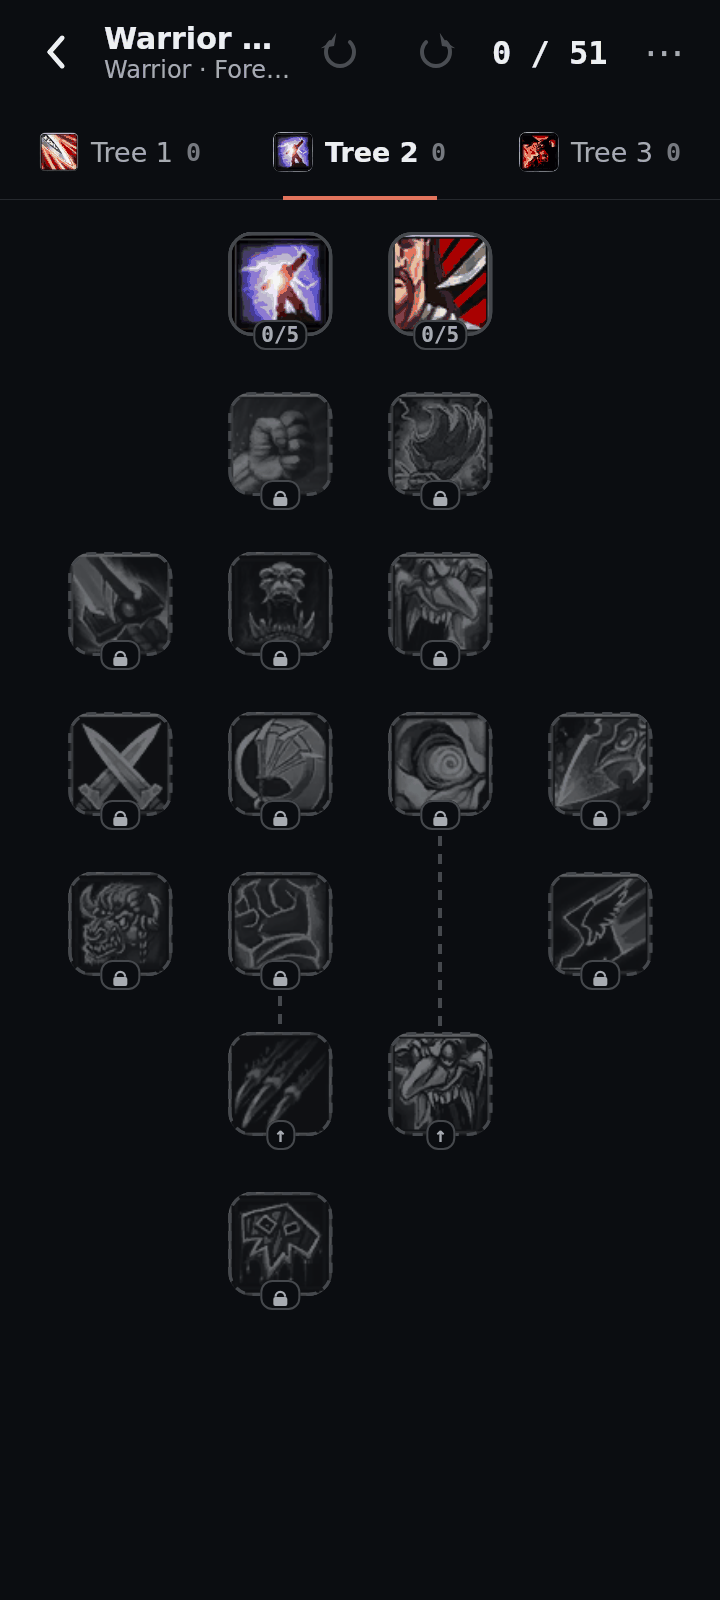
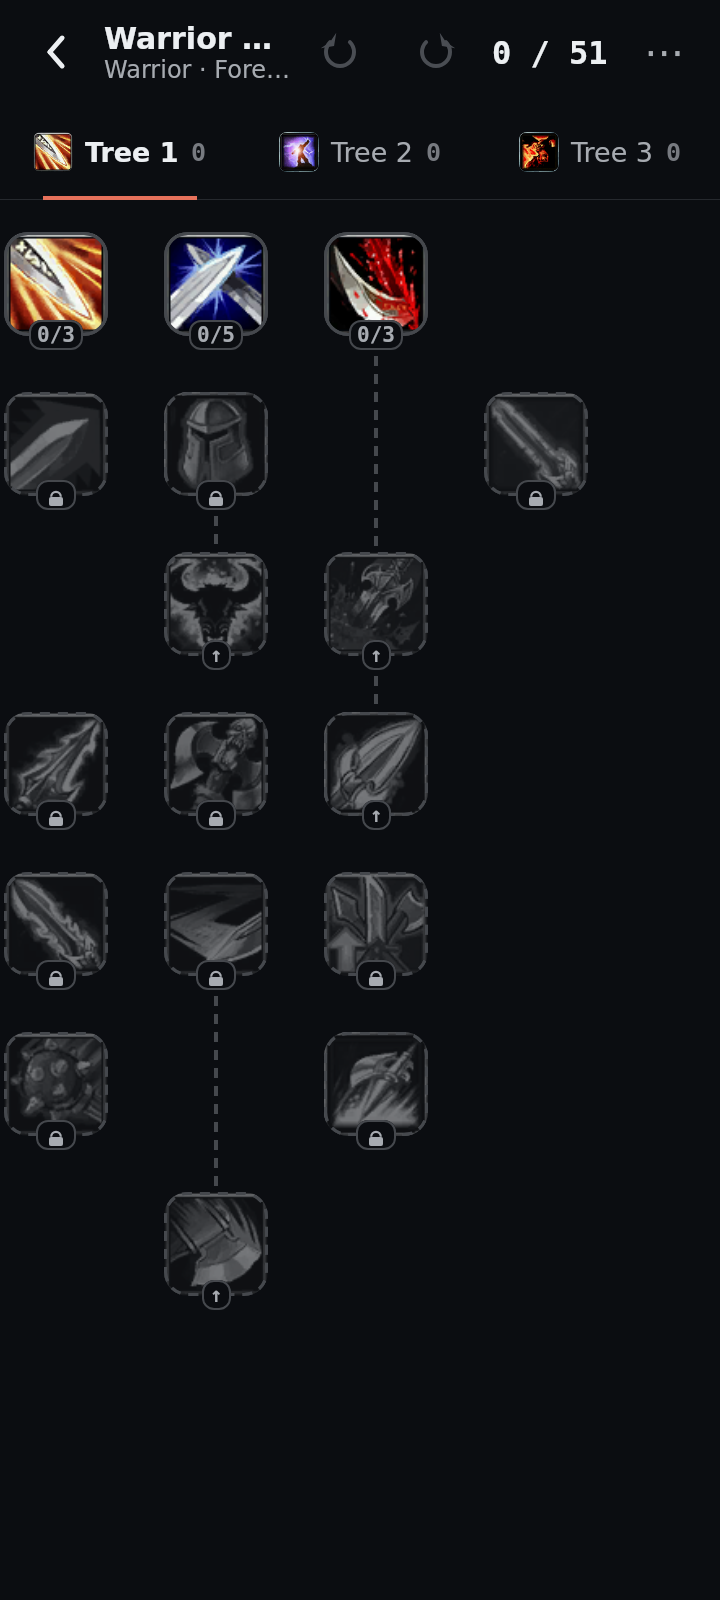
docs(mobile): PR #19 FIT section swipe model and direction, new recording
Claude-Session: https://claude.ai/code/session_01PrRW91Cug143bfgGuLFWqE

diff --git a/docs/mobile-architecture.md b/docs/mobile-architecture.md
@@ -404,19 +404,36 @@ entry is gone; the baseline Warrior loader remains as the tests' fixture.
   `TalentTreeGestureRules.kt`, all thresholds implementation-safe):
 
   - section swipe — inside the canvas's ONE gesture handler
-    (`talentTreeGestures`), not a second detector: while a single finger
-    pans, the horizontal movement the content clamp refuses accumulates as
-    overscroll (`TalentSectionOverscroll`; a movement back first unwinds it)
-    and shows as a bounded rubber band (0.35×, ≤ 32 dp, drawn after the
-    pointer-input node so it never shifts the gesture's coordinates). At the
-    release `talentSectionSwipeDirection` switches to the neighbouring
-    section only when the overscroll is still ≥ 64 dp, the path is at most
-    ≈ 27° (|dy| ≤ 0.5·|dx|), the gesture never had a second finger, passed the
-    tap slop, and did not start in `WindowInsets.systemGestures` (Android's
-    edge Back stays the OS's). Swipe left at the right edge → next, right at
-    the left edge → previous, no wrap-around (`neighbourSection`). The switch
-    is the tab tap path (`onSectionSelected`): selection cleared, every
-    section keeps its own camera, no `BuildState` change, no autosave;
+    (`talentTreeGestures`), not a second detector. The model is chosen when
+    the gesture passes the 7 dp tap slop (`TalentSectionSwipeModel`):
+    - **FIT** — the camera is at its fit zoom and the section fits the width
+      (every bundled class at 360 dp): a gesture more horizontal than
+      vertical is locked as a section swipe. The camera does not move; the
+      canvas follows the finger as a bounded rubber band (0.35×, ≤ 32 dp,
+      drawn after the pointer-input node). The release switches
+      (`talentSectionFitSwipeDirection`) after ≥ 56 dp, or a ≥ 32 dp flick
+      still moving ≥ 600 dp/s the same way; the path must stay within
+      |dy| ≤ 0.5·|dx|. A more vertical gesture scrolls a tall section with the
+      sideways movement locked, so scrolling keeps the FIT model. A second
+      finger ends the lock and the gesture pinches as usual;
+    - **edge** — zoomed in or out, or a section wider than the canvas: one
+      finger pans as always. The movement the content clamp refuses
+      accumulates as overscroll (`TalentSectionOverscroll`; moving back
+      unwinds it). `talentSectionSwipeDirection` switches when it is still
+      ≥ 40 dp at the release (64 dp before the device check), judging the
+      slope only on the movement since the edge was reached. FIT (or a
+      re-tap of the tab) returns the FIT model;
+    - never for a tap, a pinch, a diagonal/short/pulled-back gesture, or one
+      that started in `WindowInsets.systemGestures`: Android's edge Back
+      stays the OS's, and nothing calls `systemGestureExclusion`;
+    - direction (`sectionSwipeDirectionOf`): the content follows the finger,
+      like a platform pager. Finger left → the tree whose tab is on the right
+      (next); finger right → previous. A right-to-left layout is mirrored, and
+      there is no wrap-around (`neighbourSection`). "Swipe right to the next
+      tree" is read as moving right along the tabs, matching the 1A v2 S4 entry
+      shift (the new tree arrives from the chosen tab's side);
+    - the switch is the tab tap path (`onSectionSelected`): selection cleared,
+      every section keeps its own camera, no `BuildState` change, no autosave;
   - bottom inspector — `inspectorVerticalSwipe` on the whole 76 dp compact
     strip (swipe up expands) and on the sheet's header (top bar + identity
     row; swipe down collapses). It observes after the children, takes the
